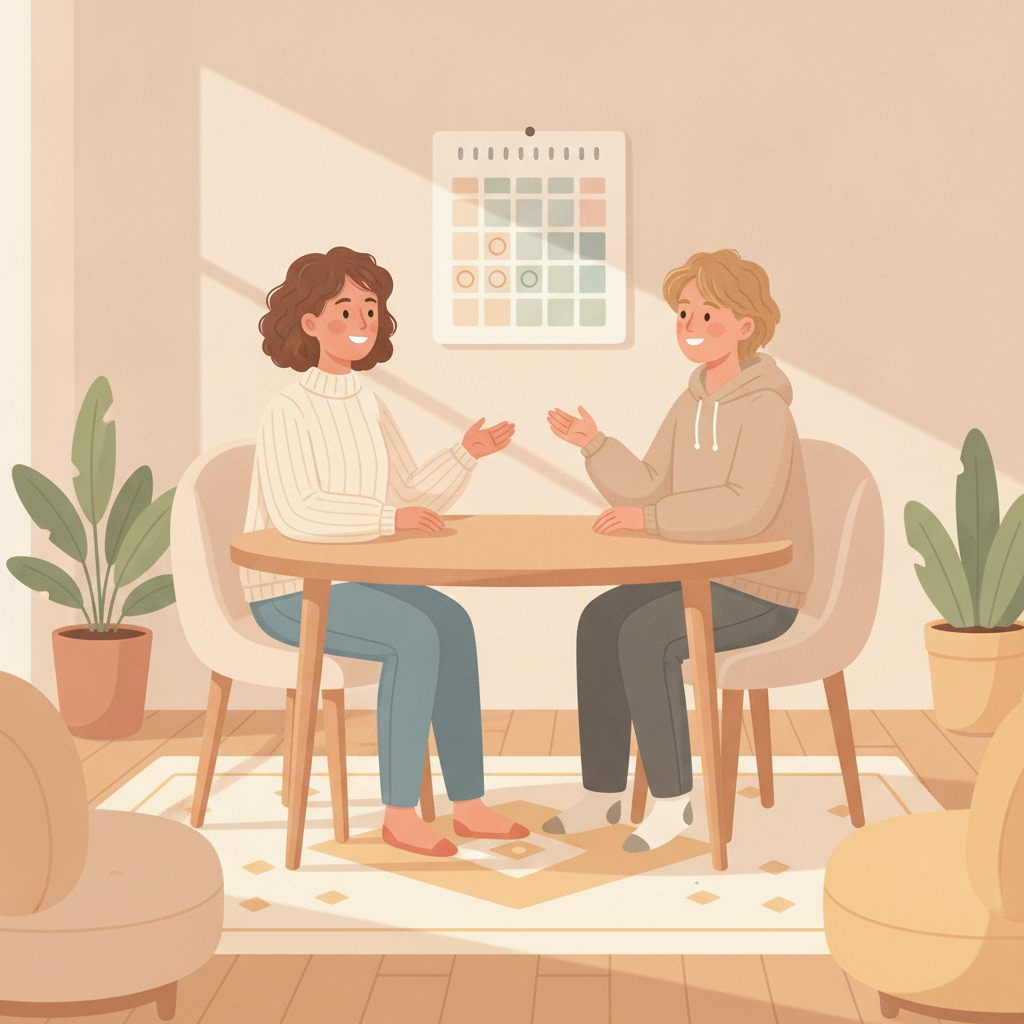
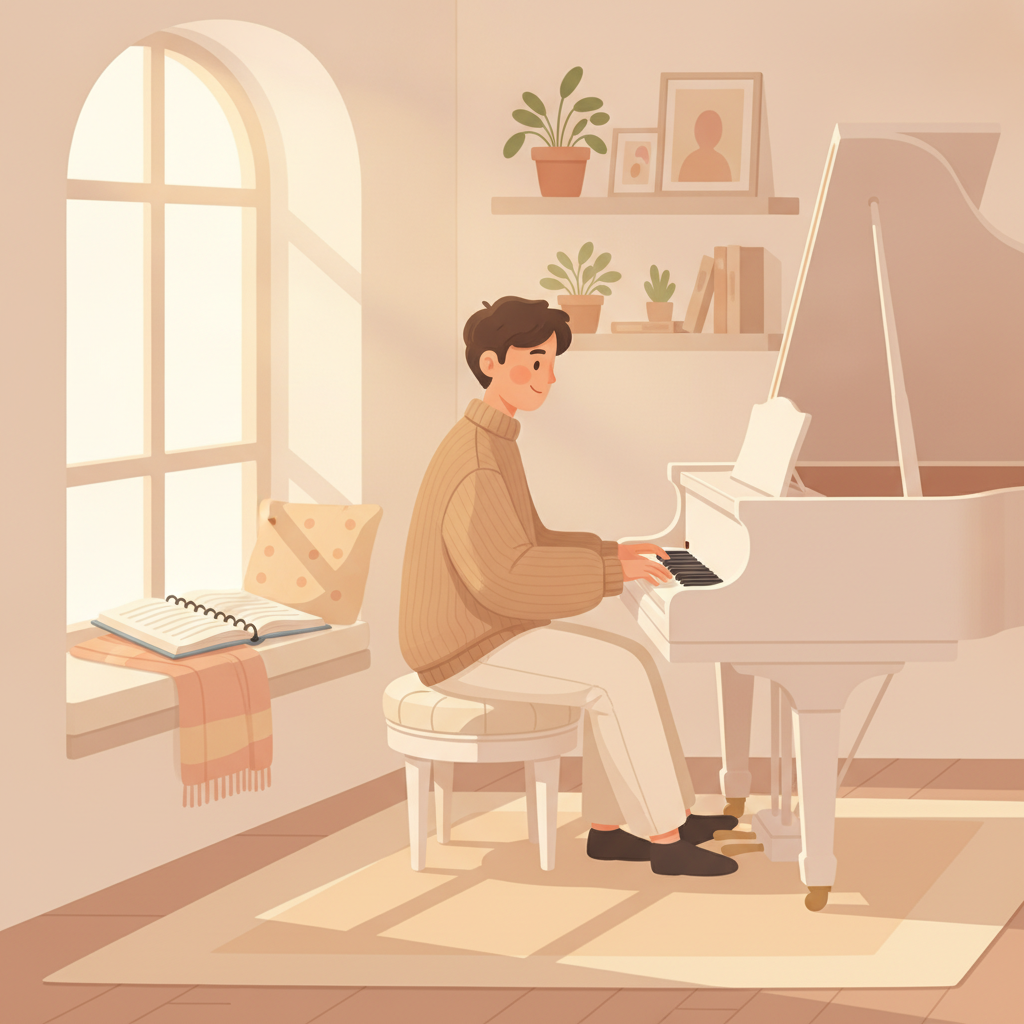
content(blog): 移除勸退節,新增「這一年,音樂可以只是一個出口」
刪除 H2「萬一你其實沒那麼確定」:讀者前提已確定孩子喜歡音樂,該例外
幾乎不存在;「我不會勸你留下來」的直接立場也與軟性影響語域相衝。

H2「以後再說的以後,通常沒有日期」整節改寫為新概念:考試期間把對學生
的期待整個放掉,音樂當成讀書之間的出口。核心是「他當初會學音樂是因為
喜歡,不是因為有人規定他要彈到什麼程度」。原節只保留「留一件最小的事
別斷」,改寫成「那不是練習,是讓那個出口留著」。

可信度的錨由新節承擔且更強 —— 老師主動放掉進度,比勸退更難假裝。

連帶:結論框第三段、快速重點 4~6 條、meta 與 Article description、
inline-1 插畫重生(月曆場景改為闔上課本坐到鋼琴前)。

diff --git a/blog/exam-year-music-lessons.html b/blog/exam-year-music-lessons.html
@@ -4,7 +4,7 @@
 <meta charset="UTF-8">
 <meta name="viewport" content="width=device-width, initial-scale=1.0">
 <title>孩子要專心準備考試了，音樂課該先停嗎？｜Aria 老師碎碎念</title>
-<meta name="description" content="孩子要考試了，音樂課要先停一年嗎？他有多喜歡你看得出來，難的是時間表已經塞不下。Aria 老師聊考試那段時間的課可以怎麼調：降頻、不派新曲、檢定往後排，以及真的要停該怎麼約定復課。">
+<meta name="description" content="孩子要考試了，音樂課要先停一年嗎？他有多喜歡你看得出來，難的是時間表已經塞不下。Aria 老師聊考試那段時間的課可以怎麼調：降頻、不派新曲、檢定往後排。這一年的音樂課不需要有進度，當成他讀書之間的一個出口就好。">
 <link rel="canonical" href="https://tingyumusic.com/blog/exam-year-music-lessons.html">
 <meta property="og:type" content="article">
 <meta property="og:title" content="孩子要專心準備考試了，音樂課該先停嗎？">
@@ -23,7 +23,7 @@
   {
     "@type":"Article",
     "headline":"孩子要專心準備考試了，音樂課該先停嗎？",
-    "description":"考試那一年，孩子的音樂課可以怎麼安排？真正吃掉時間的往往不是那一堂課，是通勤和每天的練習。比起全停，減量通常更划算——掉的是手感，不是感情。附考試期間的上課調整方式，以及真的要停該怎麼約定復課。",
+    "description":"考試那一年，孩子的音樂課可以怎麼安排？真正吃掉時間的往往不是那一堂課，是通勤和每天的練習。比起全停，減量通常更划算——掉的是手感，不是感情。附考試期間的上課調整方式。這一年的音樂課不需要有進度，當成孩子讀書之間的一個出口就好。",
     "image":"https://tingyumusic.com/assets/blog/exam-year-music-lessons/cover.png",
     "author":{"@type":"Person","@id":"https://tingyumusic.com/#teacher","name":"郭庭羽 Aria Kuo"},
     "publisher":{"@type":"Organization","@id":"https://tingyumusic.com/#business","name":"聽聽音樂 TingTing Music"},
@@ -60,7 +60,7 @@
       <span class="a-label">先講結論</span>
       <p>先回答你最想問的那一題：真正吃掉時間的，往往不是那一堂課，是通勤和每天的練習。要調，通常也是從這兩邊調起。</p>
       <p>所以比起全停，我更常建議的是<strong>減量</strong>。停一年，掉的是手感，不是感情，但手感要花時間才追得回來，能省下這一段就省。</p>
-      <p>如果連你自己都說不出他到底愛不愛，那就先拼升學，沒關係——只是停之前，記得把回來的月份講定。</p>
+      <p>而這一年的音樂課，不需要有進度。當成他讀書之間的一個出口就好——他當初會學，本來也就是因為喜歡。</p>
     </div>
     <figure><img src="../assets/blog/exam-year-music-lessons/cover.png" alt="青少年在書桌前讀書，房間角落安靜地放著一架鋼琴的插畫"><figcaption>難的不是他愛不愛，是時間表已經塞不下了。</figcaption></figure>
     <p>這個擔心，最後通常會變成一句很客氣的話：「老師，我們家可能下學期先停一下，等考完再回來。」這句話我每年都會聽到幾次。有人是國三下才開口，有人國二上就先來探口風，也有高二的家長為了學測問同一件事。</p>
@@ -83,18 +83,15 @@
     <p>作業盡量在課堂上做完。回家零練習聽起來很不像話，但這一年就是這樣，硬派作業只會讓音樂課變成第五科。</p>
     <p>檢定和發表會我會往後排。這兩件事需要一段集中的準備期，而準備期正好是這一年最缺的。</p>
     <p>這些都不是規定，是可以談的。每個孩子被塞滿的程度不一樣，跟老師講清楚他的狀況，通常都排得出一個版本。</p>
-    <h2>萬一你其實沒那麼確定</h2>
-    <p>也有一種情況：孩子從小學一路學到現在，說不上喜歡，也說不上討厭，你自己都講不出他到底愛不愛。</p>
-    <p>那我不會勸你留下來。</p>
-    <p>一個本來就在硬撐的孩子，你再幫他保留這一小時，他不會覺得被珍惜，只會多一件事要應付。而你會因為「都幫你留了」而更難不生氣——課排了、錢繳了、車也接送了，他還是一副被押來的樣子。這種課上下去，對誰都不好。</p>
-    <p>停了不丟臉。音樂不會因為你停一年就不要你，這不是一班錯過就沒有的車。真的想回來，什麼時候都回得來。</p>
-    <p>我知道你可能已經在心裡準備好被老師勸留了。這篇不會。</p>
-    <h2>「以後再說」的以後，通常沒有日期</h2>
-    <p>「先把書讀好，音樂以後再說。」這句話沒有錯。錯的是「以後」沒有日期。</p>
-    <p>我看過的情況大概是這樣：停課的時候大家都說等考完，但考完之後有暑假、有新學校、有新的補習班，等到想起來已經是隔年。不是誰反悔，是那個「以後」從一開始就沒有寫在任何地方。</p>
-    <p>所以如果決定要停，可以試著把復課的月份講出來，寫進行事曆，讓孩子也在場聽到。跟老師講一聲更好——被人記著的約定，比自己記著的容易兌現。</p>
-    <p>還有一件事：停課期間，如果能留一件最小的事別讓它斷，會差很多。一週摸琴十分鐘也好，通勤的時候聽他喜歡的那幾首也好。小到不構成負擔就對了。那不是練習，是留一條回去的路。</p>
-    <figure><img src="../assets/blog/exam-year-music-lessons/inline-1.png" alt="家長和青少年在餐桌前，看著牆上的月曆平靜地討論的插畫"><figcaption>有寫下來的「以後」，才會真的到。</figcaption></figure>
+    <h2>這一年，音樂可以只是一個出口</h2>
+    <p>考試那段時間，我對學生的期待會整個放掉。</p>
+    <p>不用進步，不用比上次好，甚至不用把上次的曲子彈完。他坐下來，吹得出聲音、彈得出他想彈的那幾句，那一堂課就成立了。</p>
+    <p>因為他當初會學音樂，是因為喜歡。不是因為有人規定他要彈到什麼程度。</p>
+    <p>這件事在壓力大的時候特別容易被忘掉，孩子自己也會忘——他會覺得自己退步了、對不起這堂課，乾脆不要來比較不尷尬。可是音樂沒有這種門檻。</p>
+    <p>沒有人規定他的音樂要到哪裡。</p>
+    <p>所以這一年，那一小時如果只是讓他把書闔上，坐下來吹一首自己喜歡的曲子，然後心情鬆一點回去讀書——那已經夠了。它不需要再有別的功能。</p>
+    <p>真的停課也一樣。一週摸琴十分鐘也好，通勤的時候聽他喜歡的那幾首也好，小到不構成負擔就對了。那不是練習，是讓那個出口留著。</p>
+    <figure><img src="../assets/blog/exam-year-music-lessons/inline-1.png" alt="青少年把課本闔上，在書桌旁的鋼琴前放鬆彈奏的插畫"><figcaption>那一小時不用有進度，讓他喘口氣就夠了。</figcaption></figure>
     <h2>高中要考學測，也是一樣的建議嗎？</h2>
     <p>原則一樣，決定權不一樣。</p>
     <p>國中那一年，時間表多半還在你手上；到了高中，孩子自己會決定要留什麼、砍什麼。你的角色也跟著換——從安排，變成不擋。</p>
@@ -123,8 +120,9 @@
       <li>難的不是判斷他愛不愛音樂，是時間表被塞滿之後，那一小時變得很難擺。</li>
       <li>停一年，掉的是手感，不是感情——但手感要花時間才追得回來。</li>
       <li>考試那段時間的課可以整個換個任務：降頻、不派新曲、作業留在課堂做完、檢定往後排。重點是不要斷，不是進步。</li>
-      <li>連你自己都說不出他愛不愛，那就先拼升學，硬留下來對誰都不好。</li>
-      <li>真的要停，把復課的月份講出來；沒有日期的「以後」，通常不會來。</li>
+      <li>這一年的音樂課不需要有進度，當成他讀書之間的出口就好。</li>
+      <li>他當初會學音樂是因為喜歡，沒有人規定他要彈到什麼程度。</li>
+      <li>真的停課，也留一件最小的事別斷——一週摸琴十分鐘，或通勤時聽他喜歡的那幾首。</li>
     </ul></div>
     <div class="cta"><h3>不確定該減量，還是先停？</h3><p>用 Line 跟我說說孩子的狀況：學多久了、最近上課什麼樣子、考試在什麼時候，我們一起把這一年安排出來。</p><a class="btn" href="https://line.me/R/ti/p/%40897rgmut" target="_blank" rel="noopener">用 Line 聊聊孩子的狀況</a></div>
     <div class="related"><h3>延伸閱讀</h3><div class="post-list">

diff --git a/docs/superpowers/specs/2026-08-10-exam-year-music-lessons-design.md b/docs/superpowers/specs/2026-08-10-exam-year-music-lessons-design.md
@@ -17,7 +17,7 @@
 | 主場景 | 國中會考（國二下～國三），問的人最多、場景最具體 |
 | 次場景 | 高中學測（高二～高三），用一個 H2 與 FAQ 接住，不平均分配篇幅 |
 | 讀者狀態 | 正在猶豫「先停一年，等考完再回來」 |
-| 核心主張 | **難的不是判斷孩子愛不愛音樂，是時間表塞不下** —— 比起全停，減量通常更划算。只有在家長自己都說不出孩子愛不愛的時候，才老實建議先拼升學 |
+| 核心主張 | **難的不是判斷孩子愛不愛音樂，是時間表塞不下** —— 比起全停，減量通常更划算。而這一年的音樂課不需要有進度，當成孩子讀書之間的一個出口就好 |
 | 定位 | **軟性影響，不是明確指導**（見第 4 節「定位」）—— 家長要的不是執行清單，是有人把他心裡那團東西講清楚 |
 | 轉換目標 | Line 諮詢（現有學生調課／新家長預約體驗課皆可） |
 
@@ -87,9 +87,9 @@
 
 ### 先講結論（`.answer` 區塊）
 
-第一句**正面回答 hook**：真正吃掉時間的不是那一堂課，是通勤和每天的練習，要動就從這兩個地方動。接著給建議 —— **別全停，改減量**；停一年掉的是手感，不是感情，但手感要花時間才追得回來，能省就省。最後給例外與但書：連你自己都說不出他愛不愛，那就先拼升學，沒關係，但停之前要先把回來的月份講定。
+第一句**正面回答 hook**：真正吃掉時間的往往不是那一堂課，是通勤和每天的練習，要調通常也從這兩邊調起。接著給建議 —— 比起全停，更常建議的是**減量**；停一年掉的是手感，不是感情，但手感要花時間才追得回來，能省就省。最後定調這一年音樂課的角色：不需要有進度，當成他讀書之間的一個出口就好。
 
-結論框直接給完整建議（含例外與但書），不留伏筆，方便 AI 摘要整段引用。
+結論框直接給完整建議，不留伏筆，方便 AI 摘要整段引用。
 
 **呼應規則**：結論框既然把「通勤和練習才是時間成本」立為答案，H2 3 的減量方案就必須實際處理這兩項 —— 目前由「降頻＝省下連通勤在內的整個下午」與「作業留在課堂上做完」承接。改動任一邊時，另一邊要跟著改。
 
@@ -107,7 +107,7 @@
 連帶規則：
 
 - **全篇不再使用「出口 / 差事」這組術語**（H2 1 廢除後就沒有地方定義它了）。FAQ 第 1 題、H2 6、`meta description`、`og:description`、Article `description` 都已改寫。
-- 保留 H2 4 的勸退段落 —— 它是全篇可信度的錨，只是改由「連你自己都說不出他愛不愛」這個更小的入口進入。
+- 「差事」那一支後來連 H2 4 的例外處理也一併移除了（見下方「H2 4 的移除」）。
 
 ### ⚠ 定位：軟性影響，不是明確指導
 
@@ -125,9 +125,9 @@
 
 **H2 3 的關鍵轉換**：那一整串調整本來就是「老師會做的事」，不是家長要執行的事。寫成祈使句既硬又搞錯對象；改成第一人稱描述之後，同時變軟、變準、也更可信 —— 家長讀到的是「原來還可以這樣排」，不是「你應該這樣做」。該節結尾補一句「這些都不是規定，是可以談的」，把決定權交回去。
 
-例外：H2 4 的勸退（「那我不會勸你留下來」）是**立場**不是指令，維持直接，不軟化。
+（原本的例外「H2 4 的勸退維持直接」已隨該節移除而失效，見下節。）
 
-### 六個 H2（非編號）
+### 五個 H2（非編號）
 
 既有兩篇「給家長」文章（`kids-wont-practice.html` 的「方法一～五」、`taipei-flute-teacher-guide.html` 的「重點一～五」）都是數字型。本篇改用問句／陳述句型 H2，避免同一條線連三篇同一個模子。
 
@@ -136,9 +136,18 @@
 | 1 | 他有多喜歡，你看得出來。難的是時間 | **只描述處境，不下判斷**。熱情是家長早就看見的（寫作業前先彈兩句、練到一半自己笑出來、下課走出來比進去時輕），不需要證明。然後攤開時間衝突：作業變多、補習加節數、晚自習、模擬考 —— 「它沒有變重，是旁邊的東西都變重了」。收在兩難本身：留著怕跟不上，拿掉又像把他喜歡的東西收走 |
 | 2 | 停一年，會掉什麼？ | 問句 H2，讓內容自己回答。掉的是手感，不是感情。全停要多花一段時間追手感，減量可以省掉這段。**一句話預告妮妮，不先把故事講完** |
 | 3 | 那考試那段時間，課可以怎麼上？ | 減量落地，**全部改寫成 Aria 自己的做法**（頻率會先降、新曲我會先不派、檢定我會往後排）。結尾補「這些都不是規定，是可以談的」 |
-| 4 | 萬一你其實沒那麼確定 | **表明立場**。入口是「孩子一路學到現在，說不上喜歡也說不上討厭，你自己都講不出他愛不愛」。硬留下來對誰都不好。段落結尾不轉彎回來勸續課。**此節維持直接，不軟化** |
-| 5 | 「以後再說」的以後，通常沒有日期 | 觀察句 H2。停課要有結束日期；停課期間留一件最小的事別斷。**開場句定稿**：「先把書讀好，音樂以後再說。」這句話沒有錯。錯的是「以後」沒有日期。 |
-| 6 | 高中要考學測，也是一樣的建議嗎？ | 接住高中線。差別在決定權已經在孩子手上，家長角色從安排變成不擋 |
+| 4 | 這一年，音樂可以只是一個出口 | **全篇的價值錨**。考試期間 Aria 把對學生的期待整個放掉：不用進步、不用比上次好，坐下來吹得出聲音就成立。理由是「他當初會學音樂是因為喜歡，不是因為有人規定他要彈到什麼程度」。punch：**沒有人規定他的音樂要到哪裡。** 結尾把「停課期間留一件最小的事別斷」收進同一個框架 —— 那不是練習，是讓那個出口留著 |
+| 5 | 高中要考學測，也是一樣的建議嗎？ | 接住高中線。差別在決定權已經在孩子手上，家長角色從安排變成不擋 |
+
+### 已移除的 H2：「萬一你其實沒那麼確定」與「『以後再說』的以後，通常沒有日期」
+
+**「萬一你其實沒那麼確定」（原 H2 4，勸退段落）已整節刪除。** 它處理的是「孩子說不上喜歡也說不上討厭」的家庭，但本篇的讀者前提已經確定是「孩子喜歡音樂」，這個例外幾乎不存在於實際讀者中；而且「那我不會勸你留下來」這種直接的立場句，與定稿的軟性影響語域相衝。
+
+可信度的錨改由現在的 H2 4 承擔，而且方式更強：**一個老師主動說「不用回到之前的程度、沒有人規定他的音樂要到哪裡」，等於放掉自己這一行最在意的東西（進度）。** 這比勸退更難假裝。
+
+**「『以後再說』的以後，通常沒有日期」（原 H2 5）併入現在的 H2 4。** 「講定復課月份」整段拿掉（偏行政指導，與軟性影響定位不合），只留下「停課期間留一件最小的事別斷」，並改寫成「那不是練習，是讓那個出口留著」。
+
+⚠ 這兩節移除後，`.answer` 第三段、`.callout` 第 4～5 條、`meta description`、Article `description` 全部改寫過；**現在全篇不再出現「先拼升學」與「復課月份」這兩個說法**，若要加回其中任何一項，要一併檢查這四處。
 
 ### 收尾 H2：考完之後，回來的第一堂課
 
@@ -191,11 +200,15 @@ H2 2  掉的是手感，不是感情 → 減量即可
 
 ## 6. 誠實度原則
 
-H2 4 是刻意勸退，會讓一部分讀者看完直接決定停課、不來預約。這是接受的成本：
+一篇只給「別停」單一答案的文章，讀起來就是招生文，會抵銷 `taipei-flute-teacher-guide.html` 建立的可信度。家長讀得出誰在賣課、誰在給建議。
 
-- 一篇只給「別停」單一答案的文章，讀起來就是招生文，會抵銷 `taipei-flute-teacher-guide.html` 建立的可信度。
-- 家長讀得出誰在賣課、誰在給建議。
-- H2 4 段落結尾**不轉彎**回來勸續課。
+初版靠「刻意勸退」（原 H2 4）來守這一點。該節移除後，改由 **H2 4「這一年，音樂可以只是一個出口」** 承擔，而且更有效：
+
+- Aria 主動放掉進度、明說「沒有人規定他的音樂要到哪裡」，等於自己拆掉續課最常見的理由（怕退步、怕跟不上）。
+- H2 3 全部寫成「我會怎麼調」而不是「你該怎麼做」，結尾還補上「這些都不是規定，是可以談的」，把決定權交回家長手上。
+- 收尾的妮妮案例證明「停一年也沒有毀掉什麼」—— 一個不利於留客的事實，由老師自己說出來。
+
+**紅線**：任何一處都不得出現「不停課才不會退步」這類以恐懼推動續課的說法。
 
 ## 7. 與現有文章的關係
 
@@ -211,7 +224,7 @@ choosing-first-instrument / taipei-flute-teacher-guide（還沒開始）
 
 需在 `kids-wont-practice.html` 補一條內鏈導向本篇。
 
-**本篇內文不放指向 `kids-wont-practice.html` 的內鏈**（只留 `.related` 卡片）。初稿曾在 H2 3 結尾寫「如果孩子考試前就已經很難坐到琴前，那要處理的是練習本身的設計」並內鏈過去，**已刪除**：那正是 H2 4 講的硬撐狀況，該節已經給了答案（先拼升學）。同一個情況給第二個、而且比較軟的答案，會讓 H2 4 的立場鬆掉。也不要改放到 H2 4 —— `kids-wont-practice.html` 的主張是「不肯練是練習設計的問題，可以修」，與 H2 4 的「別硬留」方向相反，從那裡連過去會互相抵銷。
+**本篇內文不放指向 `kids-wont-practice.html` 的內鏈**（只留 `.related` 卡片）。初稿曾在 H2 3 結尾寫「如果孩子考試前就已經很難坐到琴前，那要處理的是練習本身的設計」並內鏈過去，**已刪除**：連坐到琴前都很難的孩子，等於已經不在本篇的讀者前提（孩子喜歡音樂）之內，那種情況直接不上課就好，不需要在這裡岔出一條「其實還能修」的支線。
 
 ## 8. 插畫
 
